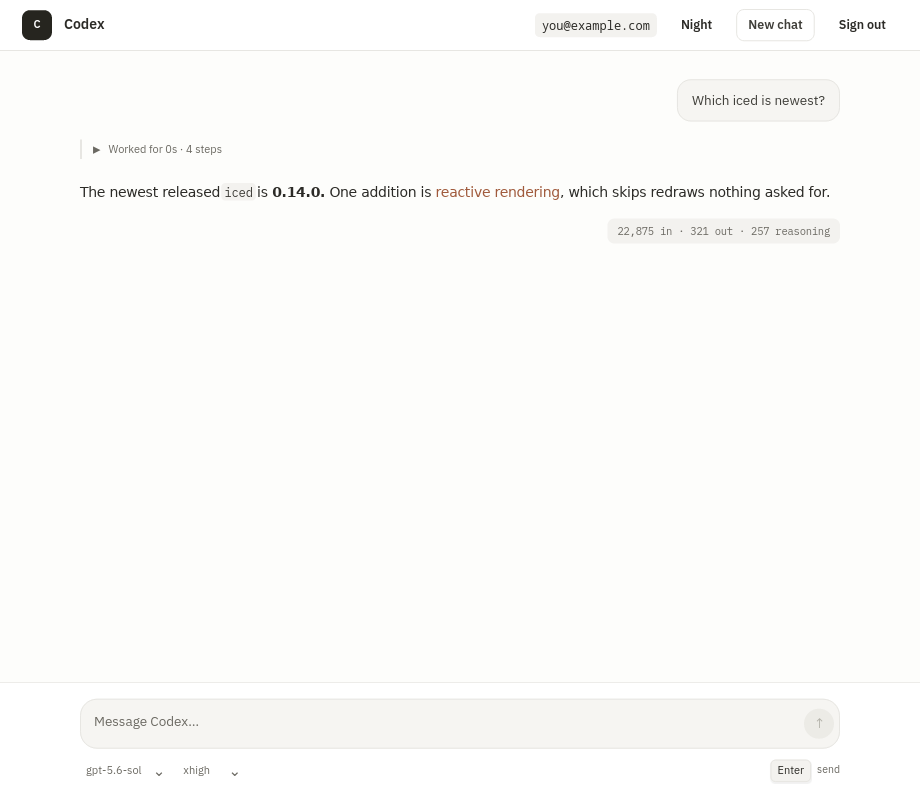
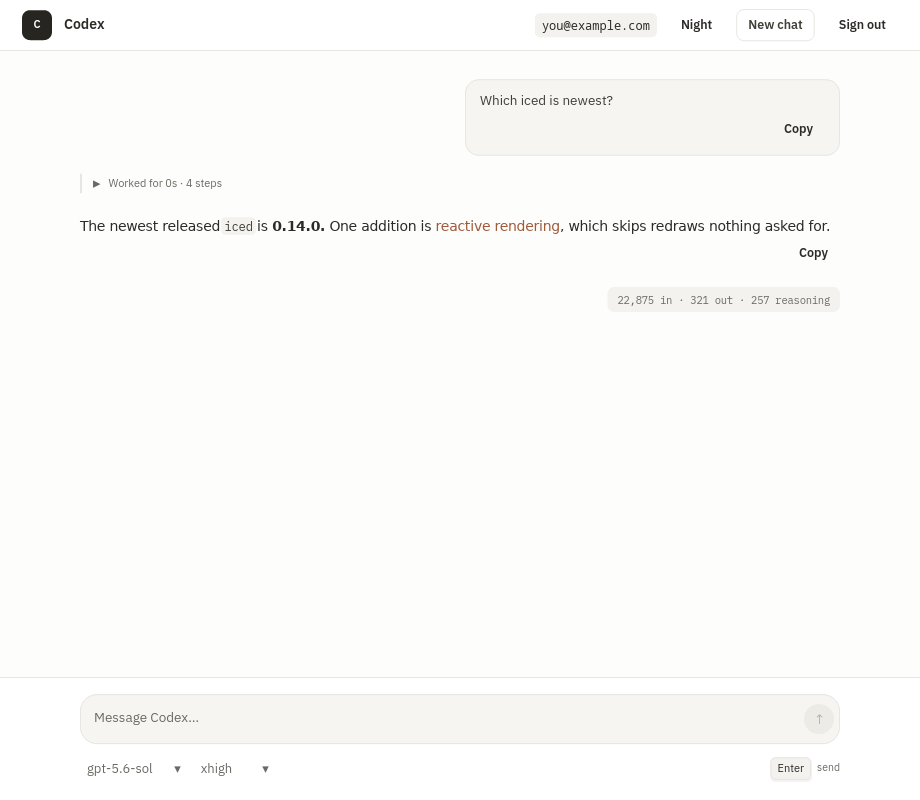
feat(ai-chat): copy a message, and stop the answer moving when it settles
Non-editable text in iced carries no selection, so an answer could not be
dragged over and copied the way it could in a browser. There is a Copy on
each message now; it is how the text leaves the window rather than a
convenience.

A code block also changed appearance the moment its turn settled: the
live reply was drawn by iced's default while a settled one goes through
this crate's viewer, which gives a block its own ground. The live reply
takes the same viewer now, so an answer does not move when it stops
arriving.

The picker labels were still 11px. The change to 12.5 in an earlier commit
never landed — the formatter had folded the properties inline and the
edit matched nothing — and the claim that it had was wrong. Verified from
the rendered manifest this time, at 13px. Their handles were also `⌄`/`⌃`,
which sit at different heights and made the control jump when it opened;
they are the same triangles as the fold marks now.

Benchmark corrected and extended, from the parallel investigation: it had
printed `turns * 6` rows when a folded turn has been 4 since the fold
change, so 96 rows were labelled 144 — and the figures reported from it
were wrong. It now derives the count, and measures the append and the
redraw separately against the reply's shape.

diff --git a/examples/ai-chat/src/main.rs b/examples/ai-chat/src/main.rs
@@ -20,6 +20,11 @@ fn main() -> iced::Result {
 /// view rebuild. It is compared against the same cycle with every row changed,
 /// which is what the transcript would cost per token if nothing were held.
 ///
+/// The second measurement splits that cycle into its two halves against the
+/// length of the reply being written, because the halves answer to different
+/// things: the append answers to the shape of the reply and the rebuild to how
+/// many blocks it has been cut into.
+///
 /// Run: `cargo test -p ai-chat-example --release perf -- --ignored --nocapture`
 #[cfg(test)]
 mod perf {
@@ -93,65 +98,10 @@ mod perf {
         })
     }
 
-    /// What 138 extra rows add to one cycle, in each mode. Taking the
-    /// difference cancels everything the two modes do not share.
+    /// What the extra rows of 23 more turns add to one cycle, in each mode.
+    /// Taking the difference cancels everything the two modes do not share.
     fn marginal(mode: fn(usize) -> Duration) -> Duration {
         mode(24).saturating_sub(mode(1))
-    }
-
-    /// The same, split: what the state change costs, and what redrawing costs.
-    fn split_at_answer_length(prefix: u32) -> (Duration, Duration) {
-        let token = || {
-            __AiChatMessage::Streamed(Chunk {
-                answer: "another handful of words ".to_owned(),
-                thinking: String::new(),
-                status: "Responding".to_owned(),
-            })
-        };
-        let mut app = booted(1);
-        for _ in 0..prefix {
-            let _ = app.__update(token());
-        }
-        let _ = app.__view();
-        let update_only = measure(|| {
-            let _ = app.__update(token());
-        });
-
-        let mut app = booted(1);
-        for _ in 0..prefix {
-            let _ = app.__update(token());
-        }
-        let _ = app.__view();
-        let both = measure(|| {
-            let _ = app.__update(token());
-            let _ = app.__view();
-        });
-        (update_only, both.saturating_sub(update_only))
-    }
-
-    /// What a token costs once the reply is already `tokens` long.
-    ///
-    /// This is the hot path, and the one that can go quadratic: every token
-    /// lands in a Markdown document that is already on screen. If appending
-    /// reparses from the top, the cost of a token tracks the length of the
-    /// answer so far — and a long reply gets slower as it is written.
-    fn cost_at_answer_length(prefix: u32) -> Duration {
-        let mut app = booted(1);
-        let token = || {
-            __AiChatMessage::Streamed(Chunk {
-                answer: "another handful of words ".to_owned(),
-                thinking: String::new(),
-                status: "Responding".to_owned(),
-            })
-        };
-        for _ in 0..prefix {
-            let _ = app.__update(token());
-        }
-        let _ = app.__view();
-        measure(move || {
-            let _ = app.__update(token());
-            let _ = app.__view();
-        })
     }
 
     #[test]
@@ -164,7 +114,7 @@ mod perf {
         for turns in [1, 8, 24] {
             eprintln!(
                 "{turns:>3} turns ({:>3} rows)  token {:>10?}   all rows changed {:>10?}",
-                turns * 6,
+                transcript(turns, false).len(),
                 streaming(turns),
                 rebuilding(turns),
             );
@@ -172,7 +122,8 @@ mod perf {
 
         let held = marginal(streaming);
         let rebuilt = marginal(rebuilding);
-        eprintln!("138 extra rows cost  {held:?} per token held, {rebuilt:?} rebuilt");
+        let extra = transcript(24, false).len() - transcript(1, false).len();
+        eprintln!("{extra} extra rows cost  {held:?} per token held, {rebuilt:?} rebuilt");
 
         // The assertion is on the property that holds with room to spare: the
         // per-token cost grows far slower than the transcript. 24x the rows for
@@ -186,28 +137,136 @@ mod perf {
         );
     }
 
-    /// The claim the streaming path rests on: appending to a parsed document
-    /// costs the same whether the answer is short or long.
+    /// A turn that is still being written, with the live surfaces on screen.
+    ///
+    /// The `streaming` preset is what puts `busy` on; without it the reply
+    /// being written is not drawn at all and a redraw measurement would be
+    /// measuring the transcript alone.
+    fn mid_turn(turns: usize) -> AiChat {
+        let (mut app, _boot) = AiChat::__preset_2();
+        let _ = app.__update(__AiChatMessage::Rows(transcript(turns, false)));
+        // The preset's live reply ends on a closing code fence. Anything
+        // appended straight onto it lands inside the fence line and reopens the
+        // block, so close it before measuring a reply of a chosen shape.
+        let _ = app.__update(chunk("\n\n"));
+        app
+    }
+
+    fn chunk(answer: &str) -> __AiChatMessage {
+        __AiChatMessage::Streamed(Chunk {
+            answer: answer.to_owned(),
+            thinking: String::new(),
+            status: "Responding".to_owned(),
+        })
+    }
+
+    /// What the reply being written looks like. `push_str` reparses the block
+    /// the reply is still inside, so the shape of a reply is what decides the
+    /// cost of a token, not its length.
+    #[derive(Clone, Copy)]
+    struct Shape {
+        name: &'static str,
+        /// Opens the reply — a code fence, or nothing for prose.
+        seed: &'static str,
+        /// Tokens between line breaks.
+        every: u32,
+        /// What a line break is: a blank line closes the block, a lone newline
+        /// stays inside it.
+        separator: &'static str,
+    }
+
+    const PROSE: Shape = Shape {
+        name: "prose, a paragraph every 40 tokens",
+        seed: "",
+        every: 40,
+        separator: "\n\n",
+    };
+
+    const CODE: Shape = Shape {
+        name: "one code block, a line every 12 tokens",
+        seed: "```rust\n",
+        every: 12,
+        separator: "\n",
+    };
+
+    /// Where a token's cost goes once the reply is long: the append into the
+    /// parsed document, and the view rebuild that follows it.
+    fn split(turns: usize, written: u32, shape: Shape) -> (Duration, Duration) {
+        let mut app = mid_turn(turns);
+        let _ = app.__update(chunk(shape.seed));
+        let mut so_far = 0u32;
+        let mut token = |app: &mut AiChat| {
+            so_far += 1;
+            let text = if so_far.is_multiple_of(shape.every) {
+                format!("token{}", shape.separator)
+            } else {
+                "token ".to_owned()
+            };
+            let _ = app.__update(chunk(&text));
+        };
+        for _ in 0..written {
+            token(&mut app);
+        }
+        for _ in 0..20 {
+            token(&mut app);
+            let _ = app.__view();
+        }
+        let (mut append, mut redraw) = (Duration::ZERO, Duration::ZERO);
+        for _ in 0..TOKENS {
+            let start = Instant::now();
+            token(&mut app);
+            append += start.elapsed();
+            let start = Instant::now();
+            let _ = app.__view();
+            redraw += start.elapsed();
+        }
+        (append / TOKENS, redraw / TOKENS)
+    }
+
     #[test]
     #[ignore = "timing evidence; run explicitly in release mode"]
-    fn a_token_costs_the_same_however_long_the_answer_already_is() {
+    fn a_streamed_token_pays_for_the_block_it_lands_in_not_the_whole_reply() {
         if cfg!(debug_assertions) {
             eprintln!("skipped: run with --release");
             return;
         }
-        let mut seen = Vec::new();
-        for prefix in [0, 250, 1000, 3000] {
-            let cost = cost_at_answer_length(prefix);
-            let (update, view) = split_at_answer_length(prefix);
-            eprintln!(
-                "{prefix:>5} written  {cost:>10?} per token   (append {update:>9?}, redraw {view:>9?})"
-            );
-            seen.push(cost);
+        let mut flat = None;
+        for shape in [PROSE, CODE] {
+            eprintln!("{}", shape.name);
+            let mut appends = Vec::new();
+            for written in [0, 500, 1500, 3000] {
+                let (append, redraw) = split(1, written, shape);
+                appends.push(append);
+                eprintln!(
+                    "  {written:>5} tokens written   token {:>10?}   append {:>10?}   redraw {:>10?}",
+                    append + redraw,
+                    append,
+                    redraw,
+                );
+            }
+            flat.get_or_insert((appends[0], *appends.last().unwrap()));
         }
-        let (first, last) = (seen[0], seen[seen.len() - 1]);
+        let (append, redraw) = split(24, 3000, CODE);
+        let worst = append + redraw;
+        eprintln!("worst case, 24 turns behind a 3000-token code block: {worst:?}");
+
+        // A reply whose blocks close — which is what prose is — costs the same
+        // per token at 3000 tokens as at none: the parser is re-reading the
+        // paragraph in hand, not the reply. A reply that is one long code block
+        // has no such boundary, so it grows; the figures above show by how much,
+        // and the bound below is what makes that growth affordable rather than
+        // the growth itself being the claim.
+        let (short, long) = flat.expect("prose ran first");
         assert!(
-            last < first * 4,
-            "the cost of a token tracked the length of the answer: {first:?} -> {last:?}"
+            long < short * 2,
+            "appending to prose tracked the reply already written: {short:?} -> {long:?}"
+        );
+        // A model writes 50-100 tokens a second, so the budget for one is
+        // 10-20ms. The worst reply this screen can be handed is an order of
+        // magnitude inside it.
+        assert!(
+            worst < Duration::from_millis(1),
+            "a token cost {worst:?} of a 10ms budget"
         );
     }
 }

diff --git a/examples/ai-chat/src/render.rs b/examples/ai-chat/src/render.rs
@@ -88,7 +88,7 @@ fn style(dark: bool) -> markdown::Style {
 /// iced derives a code block's container from the theme, which on a dark
 /// palette leaves it the same value as the page behind it — the block stops
 /// reading as a block at all. Everything else here is iced's own default.
-struct Blocks {
+pub struct Blocks {
     dark: bool,
 }
 
@@ -134,6 +134,15 @@ impl<'a> markdown::Viewer<'a, String> for Blocks {
         })
         .into()
     }
+}
+
+/// The same viewer, for the reply still being written.
+///
+/// Without it the live reply is drawn by iced's default and a code block
+/// changes appearance the moment its turn settles — popping onto the ground
+/// `Blocks` gives it. The answer should not move when it stops arriving.
+pub fn answer_viewer(dark: bool) -> Blocks {
+    Blocks { dark }
 }
 
 /// One settled Markdown row. The message is the URL of a clicked link.

diff --git a/examples/ai-chat/README.md b/examples/ai-chat/README.md
@@ -153,17 +153,33 @@ committed artifact.
 ### Measured
 
 One full Elm cycle — `update` with a token, then a whole view rebuild — on a
-release build, 200 tokens per sample:
+release build, 200 tokens per sample.
+
+Against transcript length, with the reply being written on screen:
 
 | Transcript | Per token | Same cycle, every row changed |
 | --- | --- | --- |
-| 1 turn (6 rows) | 24 µs | 20 µs |
-| 8 turns (48 rows) | 44 µs | 51 µs |
-| 24 turns (144 rows) | 92 µs | 121 µs |
+| 1 turn (4 rows) | 25 µs | 23 µs |
+| 8 turns (32 rows) | 39 µs | 41 µs |
+| 24 turns (96 rows) | 69 µs | 80 µs |
 
-24× the transcript for 3.8× the per-token cost. What remains is the keyed
-column building one wrapper per row whether or not the row is reused;
-virtualising the transcript is the next thing that would flatten it.
+Against the length of the reply itself, split into the append and the redraw.
+`Content::push_str` re-reads the block the reply is still inside, so what
+decides the cost of a token is the reply's *shape*, not its length:
+
+| Reply so far | Prose (a paragraph every 40) | One unbroken code block |
+| --- | --- | --- |
+| 0 tokens | 51 µs | 51 µs |
+| 1500 tokens | 51 µs | 98 µs |
+| 3000 tokens | 56 µs | 135 µs |
+
+Prose is flat — the parser is re-reading the paragraph in hand, not the reply.
+A reply that is one long code block has no boundary to close, so it grows.
+
+The worst case this screen can be handed — 24 settled turns behind a
+3000-token unbroken code block — is **171 µs**. A model writes 50–100 tokens a
+second, so the budget for one is 10–20 ms: that worst case is under 2% of it.
+Further tuning is not warranted, and none was kept.
 
 ## Limits
 
